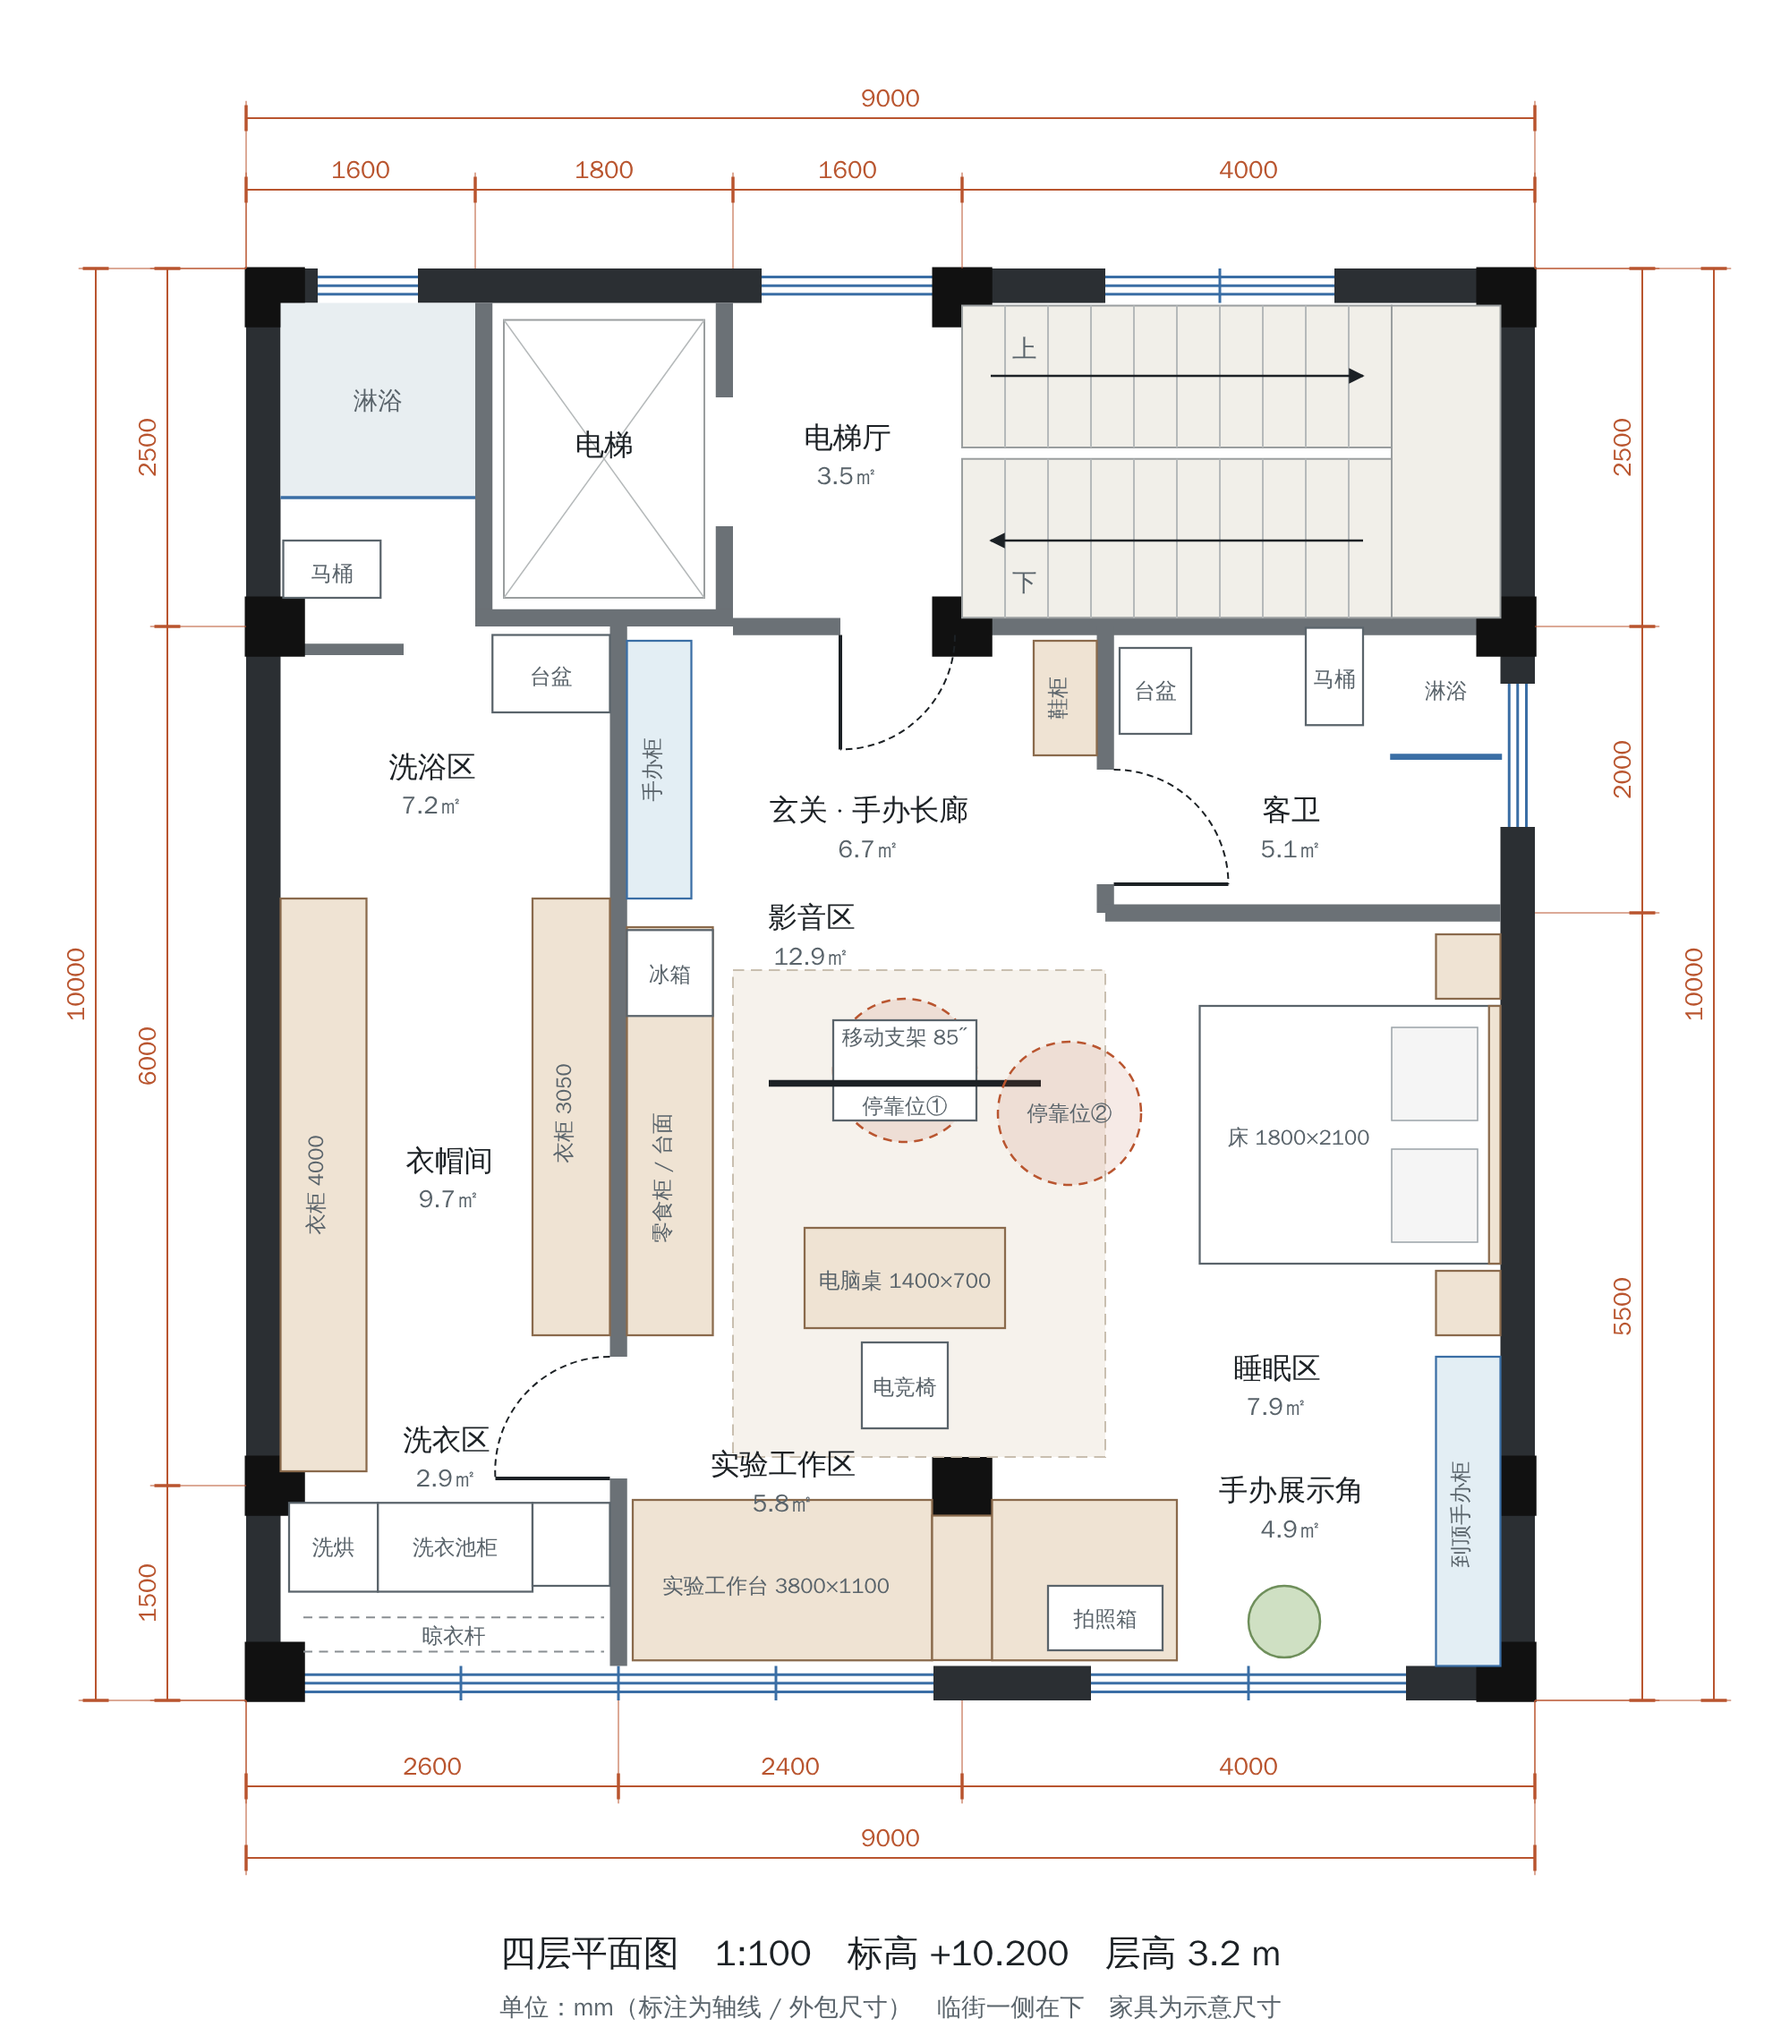
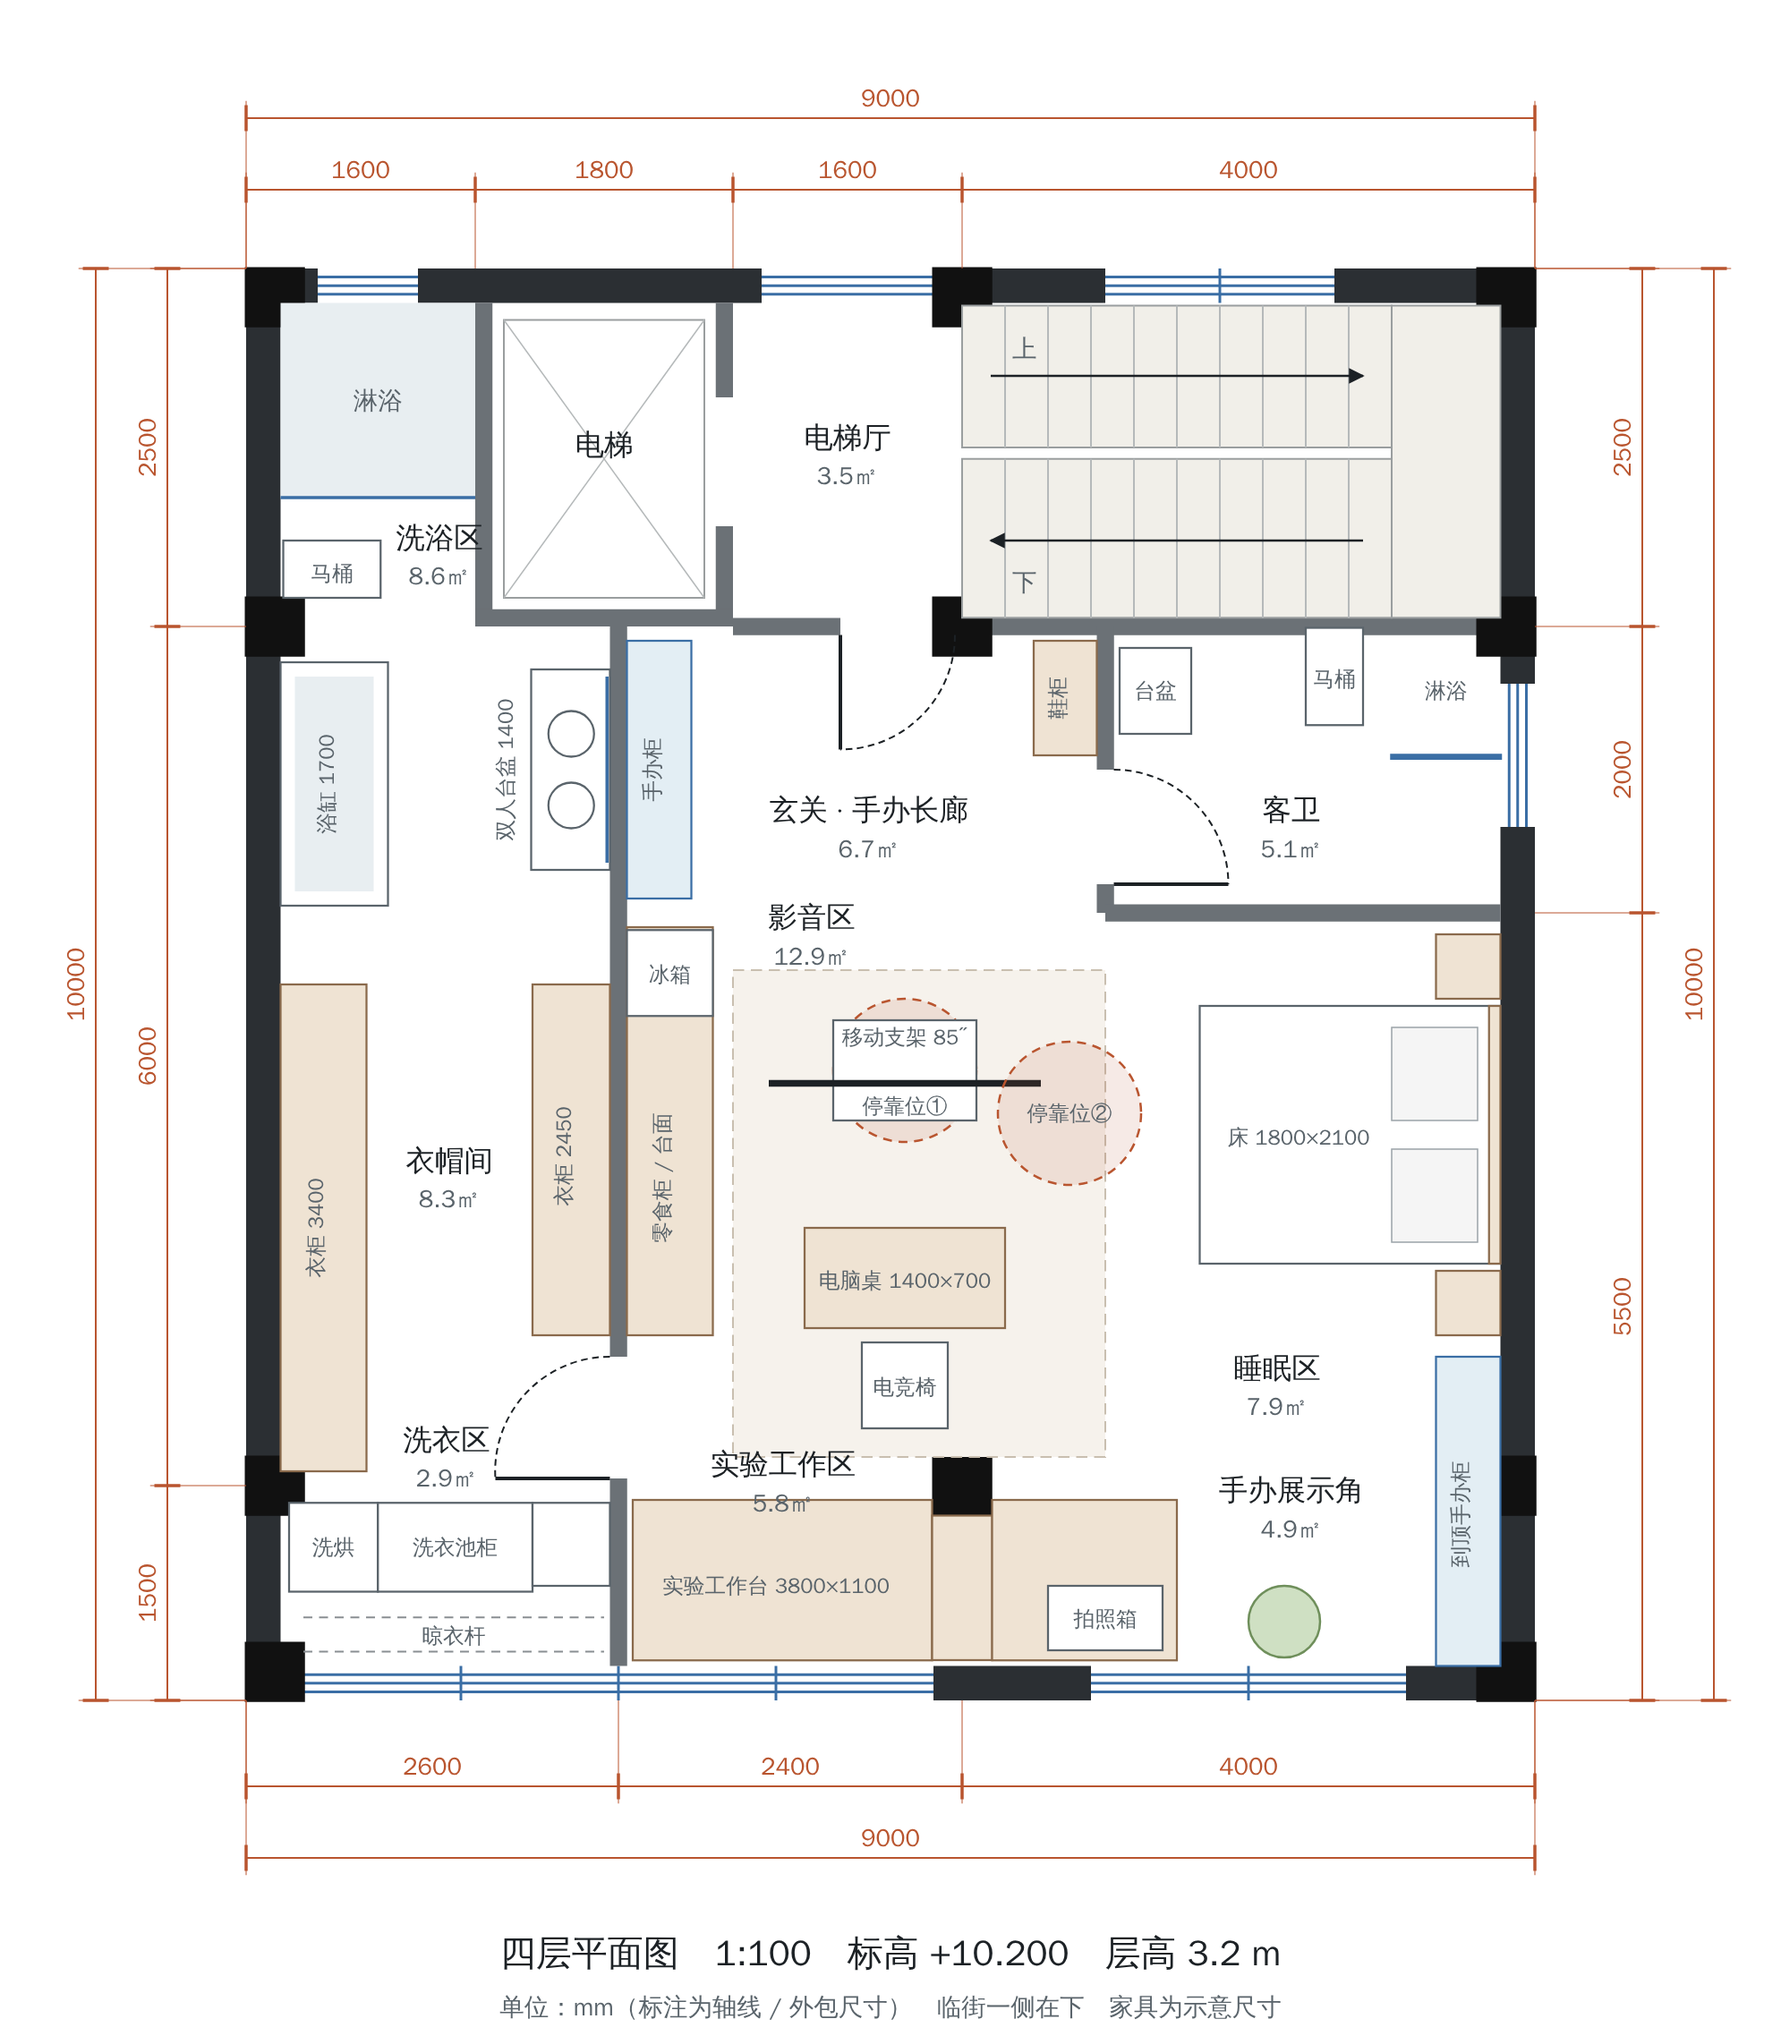
4F: add 1.4 m double vanity and 1.7 m bathtub; update floor plan
Claude-Session: https://claude.ai/code/session_01TChuN6HAEGWspiFksKBBDD

diff --git a/index.html b/index.html
@@ -194,8 +194,8 @@ ROOMS[3][0] = ['卧室 A · 带阳台', 'wood', [[1.6, 5.0, 3.9, 8.5], [1.6, 3.6
 ROOMS[3].push(['过道', 'stone', [[3.66, 4.94, 2.56, 3.84]], [4.3, 3.2]]);
 // 四楼：一室套房（A、B 两间卧室打通）
 ROOMS[4] = [
-  ['洗浴区', 'bath', [[0.24, 1.6, 0.24, 2.5], [0.24, 2.54, 2.5, 4.3]], [1.2, 3.7]],
-  ['衣帽间', 'wood', [[0.24, 2.54, 4.3, 8.5]], [1.4, 7.3]],
+  ['洗浴区', 'bath', [[0.24, 1.6, 0.24, 2.5], [0.24, 2.54, 2.5, 4.9]], [1.5, 2.2]],
+  ['衣帽间', 'wood', [[0.24, 2.54, 4.9, 8.5]], [1.4, 7.3]],
   ['洗衣区', 'tile', [[0.24, 2.54, 8.5, 9.76]], [1.4, 9.3]],
   ['睡眠区', 'wood', [[6.06, 8.76, 4.56, 7.5]], [7.7, 6.0]],
   ['影音区', 'wood', [[2.66, 6.06, 4.5, 8.3]], [3.8, 5.2]],
@@ -568,14 +568,17 @@ function floor4Suite() {
   cyl(f, 0.9, 0.5, b + 2.05, 0.02, 0.15, M.metal);
   // 马桶 + 半高隔断
   toilet(f, b, 0.6, 2.1, true);
-  box(g, 0.24, 1.1, b, b + 1.2, 2.62, 2.7, M.int);
   // 双台盆，靠电梯井墙
-  sink(f, b, 1.72, 2.54, 2.56, 3.1);
-  box(f, 1.8, 2.46, b + 1.1, b + 1.9, 2.56, 2.58, M.glass);
+  // 1.4 m 双人台盆，靠衣帽间隔墙，整面镜
+  sink(f, b, 1.99, 2.54, 2.8, 4.2);
+  box(f, 2.1, 2.4, b + 0.86, b + 0.9, 3.05, 3.45, M.bath); box(f, 2.1, 2.4, b + 0.86, b + 0.9, 3.55, 3.95, M.bath);
+  box(f, 2.52, 2.54, b + 1.1, b + 2.0, 2.85, 4.15, M.glass);
+  // 1.7 m 浴缸，靠左墙
+  box(f, 0.24, 0.99, b, b + 0.55, 2.75, 4.45, M.white);
+  box(f, 0.34, 0.89, b + 0.3, b + 0.56, 2.85, 4.35, M.bath);
   // 衣柜：左墙整排 + 隔墙侧
-  box(f, 0.24, 0.84, b, b + 2.4, 4.4, 8.4, M.fwood);
-  box(f, 2.0, 2.54, b, b + 2.4, 4.4, 7.45, M.fwood);
-  box(f, 0.86, 0.88, b + 0.3, b + 2.0, 3.6, 4.3, M.glass);
+  box(f, 0.24, 0.84, b, b + 2.4, 5.0, 8.4, M.fwood);
+  box(f, 2.0, 2.54, b, b + 2.4, 5.0, 7.45, M.fwood);
   // 洗衣区（原阳台，已并入室内，靠落地窗采光晾晒）
   box(f, 0.3, 0.92, b, b + 0.85, 8.62, 9.24, M.white);
   box(f, 0.3, 0.92, b + 0.86, b + 1.71, 8.62, 9.24, M.white);

diff --git a/model/house.html b/model/house.html
@@ -192,8 +192,8 @@ ROOMS[3][0] = ['卧室 A · 带阳台', 'wood', [[1.6, 5.0, 3.9, 8.5], [1.6, 3.6
 ROOMS[3].push(['过道', 'stone', [[3.66, 4.94, 2.56, 3.84]], [4.3, 3.2]]);
 // 四楼：一室套房（A、B 两间卧室打通）
 ROOMS[4] = [
-  ['洗浴区', 'bath', [[0.24, 1.6, 0.24, 2.5], [0.24, 2.54, 2.5, 4.3]], [1.2, 3.7]],
-  ['衣帽间', 'wood', [[0.24, 2.54, 4.3, 8.5]], [1.4, 7.3]],
+  ['洗浴区', 'bath', [[0.24, 1.6, 0.24, 2.5], [0.24, 2.54, 2.5, 4.9]], [1.5, 2.2]],
+  ['衣帽间', 'wood', [[0.24, 2.54, 4.9, 8.5]], [1.4, 7.3]],
   ['洗衣区', 'tile', [[0.24, 2.54, 8.5, 9.76]], [1.4, 9.3]],
   ['睡眠区', 'wood', [[6.06, 8.76, 4.56, 7.5]], [7.7, 6.0]],
   ['影音区', 'wood', [[2.66, 6.06, 4.5, 8.3]], [3.8, 5.2]],
@@ -566,14 +566,17 @@ function floor4Suite() {
   cyl(f, 0.9, 0.5, b + 2.05, 0.02, 0.15, M.metal);
   // 马桶 + 半高隔断
   toilet(f, b, 0.6, 2.1, true);
-  box(g, 0.24, 1.1, b, b + 1.2, 2.62, 2.7, M.int);
   // 双台盆，靠电梯井墙
-  sink(f, b, 1.72, 2.54, 2.56, 3.1);
-  box(f, 1.8, 2.46, b + 1.1, b + 1.9, 2.56, 2.58, M.glass);
+  // 1.4 m 双人台盆，靠衣帽间隔墙，整面镜
+  sink(f, b, 1.99, 2.54, 2.8, 4.2);
+  box(f, 2.1, 2.4, b + 0.86, b + 0.9, 3.05, 3.45, M.bath); box(f, 2.1, 2.4, b + 0.86, b + 0.9, 3.55, 3.95, M.bath);
+  box(f, 2.52, 2.54, b + 1.1, b + 2.0, 2.85, 4.15, M.glass);
+  // 1.7 m 浴缸，靠左墙
+  box(f, 0.24, 0.99, b, b + 0.55, 2.75, 4.45, M.white);
+  box(f, 0.34, 0.89, b + 0.3, b + 0.56, 2.85, 4.35, M.bath);
   // 衣柜：左墙整排 + 隔墙侧
-  box(f, 0.24, 0.84, b, b + 2.4, 4.4, 8.4, M.fwood);
-  box(f, 2.0, 2.54, b, b + 2.4, 4.4, 7.45, M.fwood);
-  box(f, 0.86, 0.88, b + 0.3, b + 2.0, 3.6, 4.3, M.glass);
+  box(f, 0.24, 0.84, b, b + 2.4, 5.0, 8.4, M.fwood);
+  box(f, 2.0, 2.54, b, b + 2.4, 5.0, 7.45, M.fwood);
   // 洗衣区（原阳台，已并入室内，靠落地窗采光晾晒）
   box(f, 0.3, 0.92, b, b + 0.85, 8.62, 9.24, M.white);
   box(f, 0.3, 0.92, b + 0.86, b + 1.71, 8.62, 9.24, M.white);

diff --git a/plans/gen_4f.py b/plans/gen_4f.py
@@ -52,7 +52,6 @@ wall_x(2.44, 2.56, 5.0, 8.76, [], 'int')                   # 楼梯间墙
 wall_z(2.54, 2.66, 2.5, 9.76, [(7.6, 8.45)], 'int')        # 衣帽卫浴区隔墙（落在窗竖梃 x=2.6）
 wall_z(5.94, 6.06, 2.5, 4.5, [(3.5, 4.3)], 'int')          # 客卫
 wall_x(4.44, 4.56, 6.0, 8.76, [], 'int')
-rect(0.24, 1.1, 2.62, 2.7, 'int')                          # 马桶旁半高隔断
 # ---------- 柱 ----------
 for x in (0.2, 5.0, 8.8):
     for z in (0.2, 2.5, 8.5, 9.8):
@@ -75,9 +74,11 @@ rect(1.8, 3.2, 0.36, 2.3, 'lift'); line(1.8, 0.36, 3.2, 2.3, 'thin'); line(3.2, 
 F = 'furn'
 rect(0.24, 1.6, 0.24, 1.6, 'wet'); line(0.24, 1.6, 1.6, 1.6, 'glass'); text(0.92, 0.98, '淋浴', 'small')
 rect(0.26, 0.94, 1.9, 2.3, F); text(0.6, 2.18, '马桶', 'tiny')
-rect(1.72, 2.54, 2.56, 3.1, F); text(2.13, 2.9, '台盆', 'tiny')
-rect(0.24, 0.84, 4.4, 8.4, 'wood'); text(0.54, 6.4, '衣柜 4000', 'tiny', 'middle', -90)
-rect(2.0, 2.54, 4.4, 7.45, 'wood'); text(2.27, 5.9, '衣柜 3050', 'tiny', 'middle', -90)
+rect(1.99, 2.54, 2.8, 4.2, F); circle(2.27, 3.25, 0.16, 'furn'); circle(2.27, 3.75, 0.16, 'furn'); line(2.52, 2.85, 2.52, 4.15, 'glass')
+text(1.86, 3.5, '双人台盆 1400', 'tiny', 'middle', -90)
+rect(0.24, 0.99, 2.75, 4.45, F); rect(0.34, 0.89, 2.85, 4.35, 'wet'); text(0.615, 3.6, '浴缸 1700', 'tiny', 'middle', -90)
+rect(0.24, 0.84, 5.0, 8.4, 'wood'); text(0.54, 6.7, '衣柜 3400', 'tiny', 'middle', -90)
+rect(2.0, 2.54, 5.0, 7.45, 'wood'); text(2.27, 6.2, '衣柜 2450', 'tiny', 'middle', -90)
 rect(0.3, 0.92, 8.62, 9.24, F); text(0.61, 8.98, '洗烘', 'tiny')
 rect(0.92, 2.0, 8.62, 9.24, F); text(1.46, 8.98, '洗衣池柜', 'tiny')
 rect(2.0, 2.54, 8.62, 9.2, F)
@@ -105,7 +106,7 @@ rect(6.1, 6.6, 2.65, 3.25, F); rect(7.4, 7.8, 2.51 + 0.0, 3.19, F); rect(8.0, 8.
 text(6.35, 3.0, '台盆', 'tiny'); text(7.6, 2.92, '马桶', 'tiny'); text(8.38, 3.0, '淋浴', 'tiny')
 # ---------- 房间名与面积 ----------
 for name, area, x, z in [
-    ('洗浴区', '7.2㎡', 1.3, 3.55), ('衣帽间', '9.7㎡', 1.42, 6.3), ('洗衣区', '2.9㎡', 1.4, 8.25),
+    ('洗浴区', '8.6㎡', 1.35, 1.95), ('衣帽间', '8.3㎡', 1.42, 6.3), ('洗衣区', '2.9㎡', 1.4, 8.25),
     ('玄关 · 手办长廊', '6.7㎡', 4.35, 3.85), ('影音区', '12.9㎡', 3.95, 4.6) , ('睡眠区', '7.9㎡', 7.2, 7.75),
     ('实验工作区', '5.8㎡', 3.75, 8.42), ('手办展示角', '4.9㎡', 7.3, 8.6), ('客卫', '5.1㎡', 7.3, 3.85),
     ('电梯厅', '3.5㎡', 4.2, 1.25), ('电梯', '', 2.5, 1.3)]:

diff --git a/README.md b/README.md
@@ -109,3 +109,4 @@
 - 三楼卫生间 B 缩回原大小（约 5.1 ㎡），卧室 B 门口恢复约 0.9 × 2.0 m 的方形分流区；卧室 B 门回到原图位置（过道右侧靠电梯厅一端），卫生间门开在分流区侧墙。浴缸仍保留，靠右墙放。
 - 三楼过道缩回方形分流（约 1.4 × 1.4 m），去掉过道边的衣柜：双开门进来，正前方门进卧室 A，右侧门进卧室 B。
 - 修正：各层电梯门改为朝电梯厅 / 楼梯一侧开（之前误画成朝房间一侧）。
+- 四楼洗浴区加 1.4 m 双人台盆（靠衣帽间隔墙，整面镜）和 1.7 m 浴缸（靠左墙），淋浴间保留。洗浴区扩到约 8.6 ㎡，衣柜从 4.4 m 处往后缩到 5.0 m 起（左 3.4 m + 右 2.45 m），衣帽间约 8.3 ㎡。
